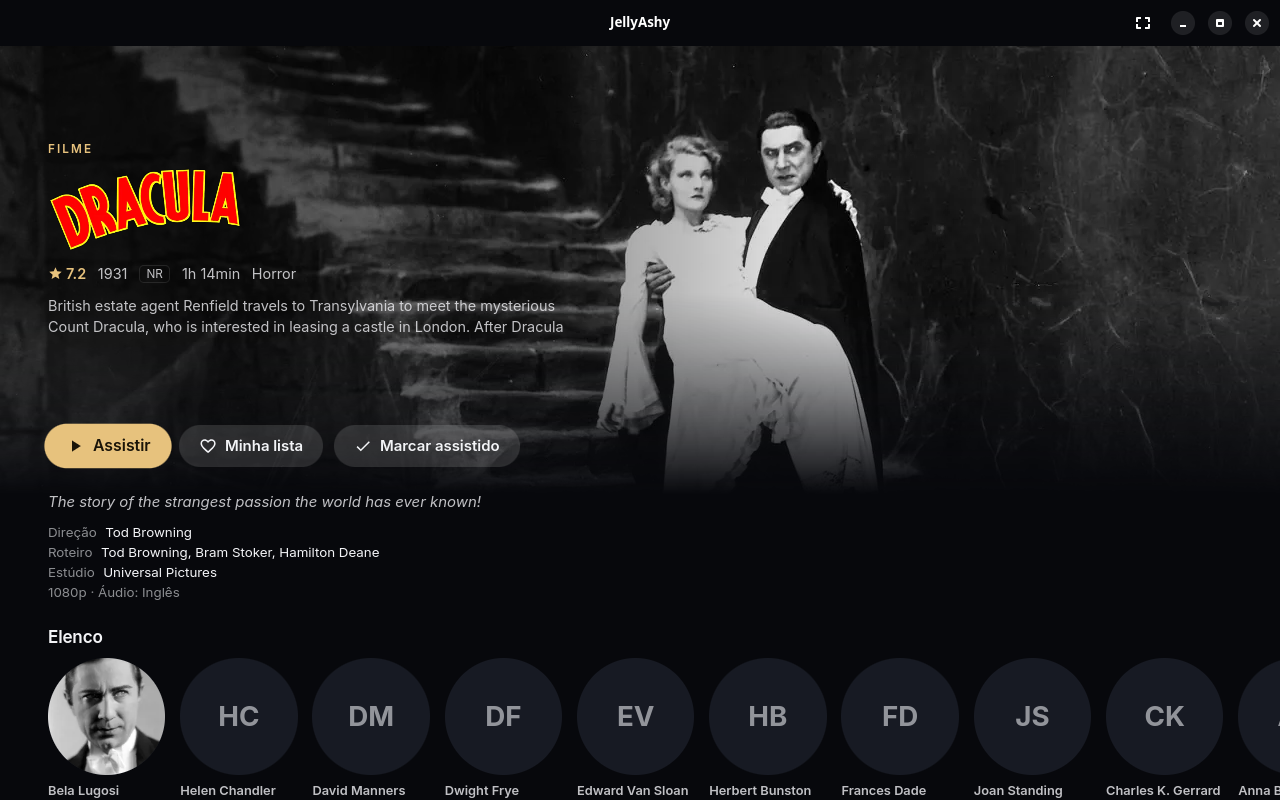
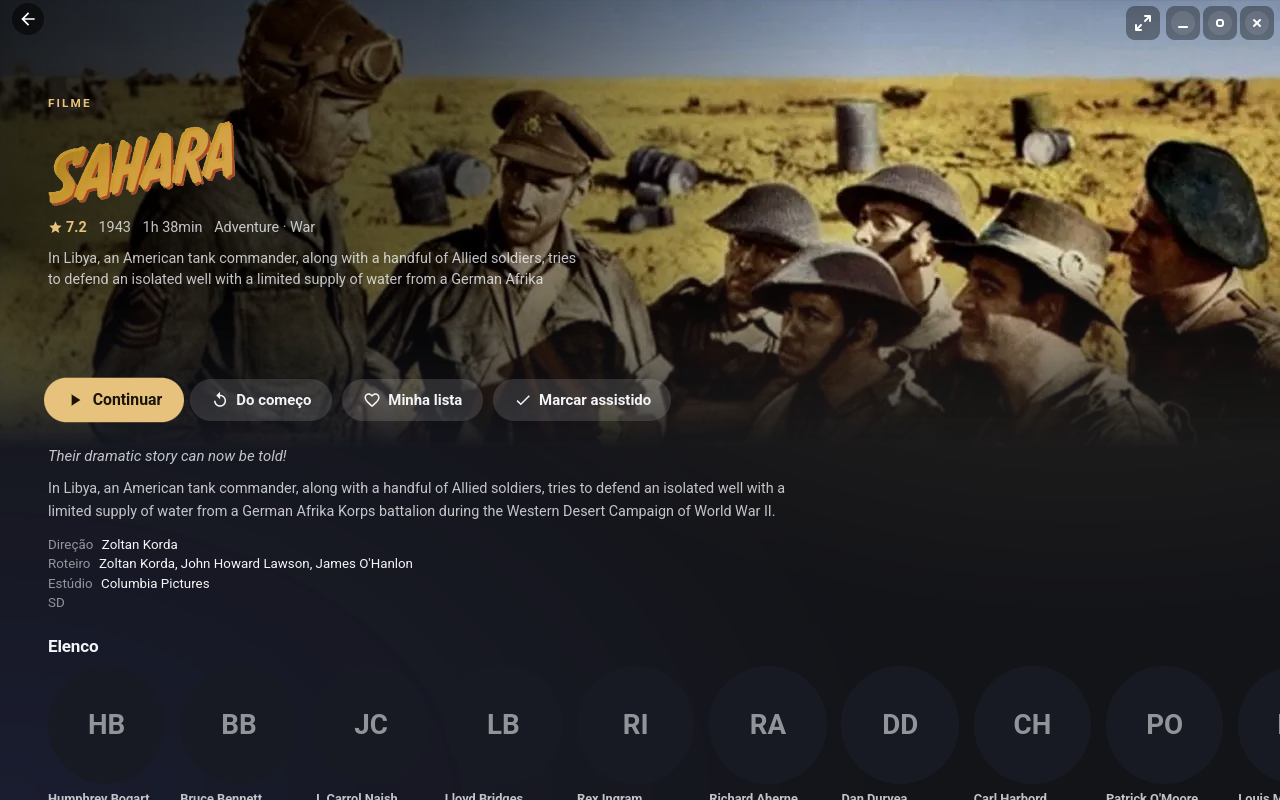
feat: the back arrow's corner of the title bar stays free; new screenshots

diff --git a/src/jellyashy_desktop/web/styles.css b/src/jellyashy_desktop/web/styles.css
@@ -914,6 +914,10 @@ html.platform-linux, html.platform-linux body { background: transparent; }
 html.platform-linux .ambient-veil { background: radial-gradient(120% 90% at 70% 0%, rgba(0, 0, 0, 0) 0%, rgba(0, 0, 0, 0.35) 78%); }
 html.platform-linux .sidebar { padding-top: 0.4rem; }
 html.platform-linux .side-brand { margin-bottom: 5.2rem; }
-html.platform-linux .back-fab { top: calc(1.2rem + 36px); }
+/* The back arrow sits on the title bar's line, at its left end (the window
+   leaves that corner free of its drag area, window.py). */
+html.platform-linux .back-fab { top: 3px; left: 12px; width: 32px; height: 32px; }
+html.platform-linux .back-fab .icon { width: 20px; height: 20px; }
 html.platform-linux .osd-top { padding-right: calc(4.5rem + 150px); }
-html.platform-linux .osd-top .back-fab { top: 0; }
+html.platform-linux .osd-top .back-fab { top: 0; left: 0; width: 4.4rem; height: 4.4rem; }
+html.platform-linux .osd-top .back-fab .icon { width: 2.4rem; height: 2.4rem; }

diff --git a/src/jellyashy_desktop/window.py b/src/jellyashy_desktop/window.py
@@ -74,7 +74,8 @@ class JellyAshyWindow(Adw.ApplicationWindow):
         full = Gtk.Button(icon_name="view-fullscreen-symbolic", tooltip_text="F11")
         full.connect("clicked", lambda *_: self._toggle_fullscreen())
         header.pack_end(full)
-        self._titlebar = Gtk.Revealer(child=header, reveal_child=True, valign=Gtk.Align.START,
+        # Its left end stays free: the page's back arrow sits there.
+        self._titlebar = Gtk.Revealer(child=header, reveal_child=True, valign=Gtk.Align.START, margin_start=72,
                                       transition_type=Gtk.RevealerTransitionType.CROSSFADE)
         overlay.add_overlay(self._titlebar)
         self._titlebar_timer = 0
